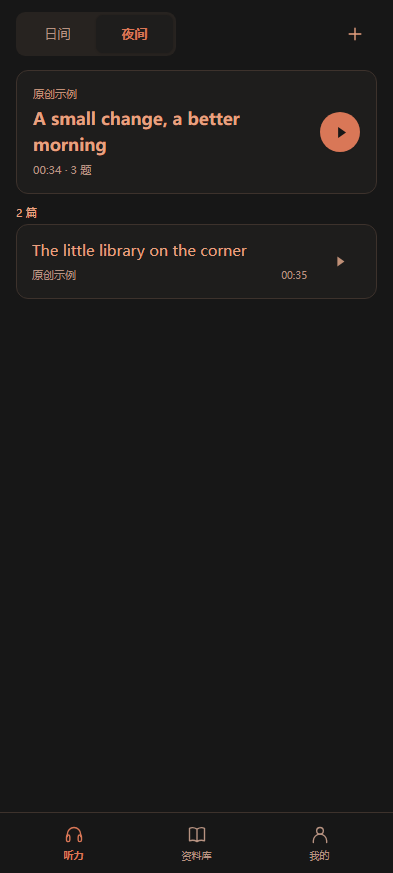
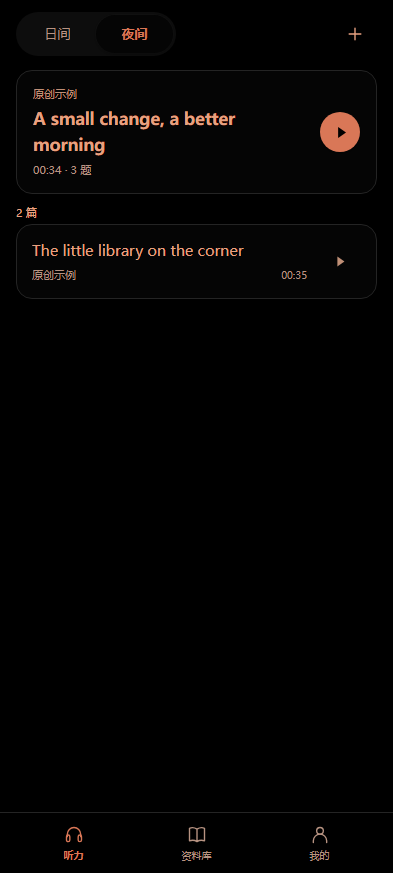
Document 1.0.6 release and verified UI polish

Changed region(s): [[0.0305, 0.0, 0.9771, 0.3402]]

diff --git a/docs/ui-polish.md b/docs/ui-polish.md
@@ -1,0 +1,29 @@
+# 黑白标识、纯黑外观与倍速菜单（1.0.6）
+
+桌面、圆形桌面入口与系统使用的应用图标统一为黑底白色波形，保留原矢量图案和兼容路径。最终 APK 编译后的图标填充色已经核对为 `#FF000000` 与 `#FFFFFFFF`，不再含浅绿色。
+
+夜间页面和原生窗口底色为纯黑 `#000000`，正文表面为 `#050505`，控件底层为 `#0D0D0D`；边框、选中背景和反馈面板统一使用中性深灰。暖橙文字及日历橙色层级保留。日间继续使用黑白灰。
+
+日历移除可见的“做题活跃度”“过去一年”和量表两端“少”“多”，保留月份、星期、每日色块与颜色量表；日期和题数仍提供给读屏和长按提示。正文显示选项从左至右为“隐藏、原文、双语”，默认隐藏及原有阅读位置保持逻辑不变。
+
+## 速度与动效
+
+正文播放器与设置页使用同一倍速胶囊。点击后就近展开四个选项：0.75×、1×、1.25×、1.5×，当前速度带勾选。打开菜单不更改速度；选择后立即应用、保存并收起，正文与音频节点保留，不调用音频重载。点外侧、Escape、安卓返回键取消，只关闭菜单；安卓返回键不同时退出正文。键盘方向键可移动选项焦点，Tab 返回正常焦点顺序。
+
+菜单在触发器附近进行 160 ms 的小幅展开，选择即生效，无需等待动画。训练模式和原文显示滑块使用 200 ms 过渡，反向点击从当前可见位置收束到新选择。播放控件保持位置和点击范围，图标由实际媒体状态驱动；正文切换只轻微淡入。细边框、胶囊圆角、轻阴影和按压反馈使用统一尺度，播放器保持 84 px 紧凑高度。系统减少动画偏好会禁用过渡与伪元素动画。
+
+设计参考 [Apple Motion](https://developer.apple.com/design/human-interface-guidelines/motion) 对简短、符合操作预期、可取消反馈的建议，以及 [Apple Menus](https://developer.apple.com/design/human-interface-guidelines/menus) 的菜单组织原则。实现仍使用项目的 Android／WebView 兼容组件。
+
+| 日间速度菜单 | 夜间速度菜单 |
+| --- | --- |
+| ![日间速度](screenshots/speed-light.png) | ![夜间速度](screenshots/speed-dark.png) |
+
+## 验证
+
[1 lines of base64/hex data omitted]
+
+[GitHub Android 8 / 11 / 16 实装与浏览器流程](https://github.com/AITopia-Shao/listenly-android/actions/runs/38559169055) 四个作业首次运行全部通过。各 Android 版本都用实际触摸选择倍速，验证播放不中断、速度保存、返回键取消，以及纯黑背景、收藏与显示顺序；各版本另通过 15 个重复播放场景与 8 项音频范围字节／哈希校验。未放宽既有断言，也未恢复系统无响应弹窗。
+
+最终本地轻量安装包另在 Android 16 / WebView 133 实装验证以上功能，并通过 16 个真题及句循环重复播放场景和 8 项 Range 校验。正文模式对齐、答案与导入清单保留。realme GT7 / realme UI 7.0 尚未直接复测本版。
+
+1.0.6 使用 versionCode 7 并沿用旧签名。轻量版与完整版的资料 JSON、音频 CRC 和长度均与 1.0.5 一致；公开 APK 只包含两个原创英语示例与五道题。

diff --git a/README.md b/README.md
@@ -8,6 +8,14 @@
 | --- | --- | --- |
 | ![首页](docs/screenshots/home.png) | ![精听](docs/screenshots/intensive.png) | ![做题](docs/screenshots/quiz.png) |
 
+## 1.0.6 的交互打磨
+
+应用图标改为黑底白色波形，夜间页面与原生背景统一调黑；日历移除冗余标题与“少／多”文字。正文显示控件顺序改为隐藏／原文／双语，并保留默认隐藏与阅读位置。
+
+播放器与设置页采用统一倍速胶囊，可直接选四档并查看当前勾选。打开或取消菜单不改速度，播放中选速立即生效且保留音频与正文；安卓返回键只收起菜单。胶囊滑块、细边框、轻阴影与短促反馈进一步统一，播放点击区域和紧凑播放器高度保持稳定。实现与动效依据见 [界面打磨验收](docs/ui-polish.md)。
+
+[1.0.6 安装包](https://github.com/AITopia-Shao/listenly-android/releases/tag/v1.0.6) 已发布，[Android 8 / 11 / 16 与浏览器回归](https://github.com/AITopia-Shao/listenly-android/actions/runs/38559169055) 首次运行全部通过。
+
 ## 1.0.5 的外观与学习记录
 
 日间改为黑白灰，夜间使用黑底橙字，首页顶部提供外观切换；训练模式只在正文页显示。首页播放按钮直接播音频，标题进入正文并默认精听、隐藏原文。收藏只切换书签空心／实心，取消后不留下背景或提示框。
